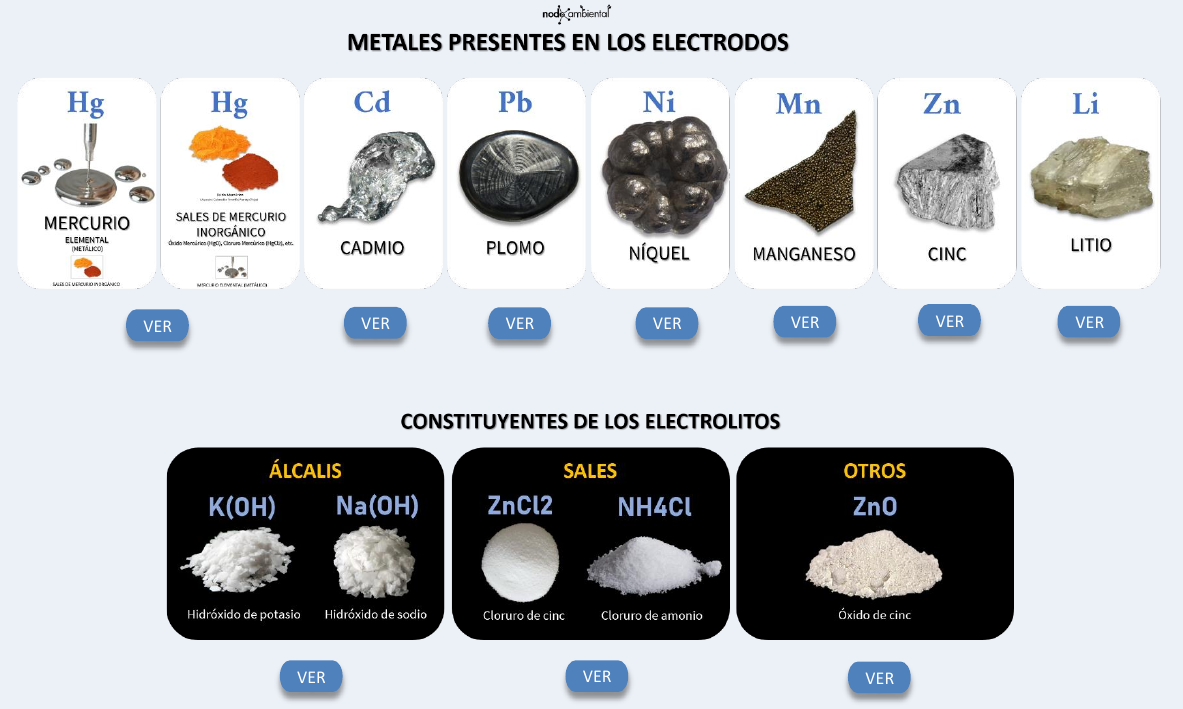
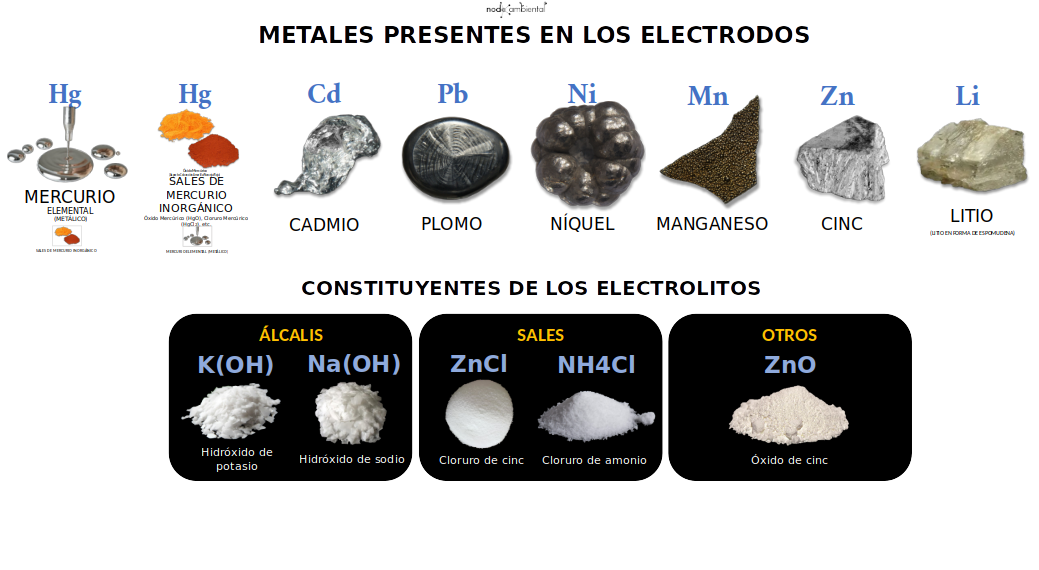
chore(build): build blog post

diff --git a/docs/contaminación/2023/07/11/gestion-pilas.html b/docs/contaminación/2023/07/11/gestion-pilas.html
@@ -172,9 +172,11 @@ Por lo tanto, se desarrolló la siguiente <strong>“guía visual para facilitar
 <table>
 <thead>
 <tr>
+<th></th>
 <th>Compará Pilas</th>
 <th>Cilíndricas</th>
 <th>Botón</th>
+<th></th>
 </tr>
 </thead>
 <tbody>
@@ -182,6 +184,8 @@ Por lo tanto, se desarrolló la siguiente <strong>“guía visual para facilitar
 <td><a class="button is-link is-light" href="https://docs.google.com/document/d/19gSvhjZ_xcbocrw7rgooecc3-O9S3JPD__icZH-i6cE/edit?usp=sharing">Ver</a></td>
 <td><a class="button is-link is-light" href="https://docs.google.com/document/d/19gSvhjZ_xcbocrw7rgooecc3-O9S3JPD__icZH-i6cE/edit?usp=sharing">Ver</a></td>
 <td><a class="button is-link is-light" href="https://docs.google.com/document/d/19gSvhjZ_xcbocrw7rgooecc3-O9S3JPD__icZH-i6cE/edit?usp=sharing">Ver</a></td>
+<td></td>
+<td></td>
 </tr>
 </tbody>
 </table>
@@ -202,12 +206,7 @@ No obstante su peligrosidad, la relevancia e incidencia de estos últimos, ha di
 <p>Finalmente, vale mencionar que, los efectos negativos que impactan directamente sobre la salud humana son los <em><strong>principales motivos que generan la necesidad de una adecuada gestión ambiental de las pilas y baterías</strong></em>.</p>
 <p><img src="/assets/images/post/21metales.png" alt="metales"></p>
 <p><img src="/assets/images/post/22metalesatencion.png" alt="metalesatencion"></p>
-<blockquote>
-<p>botones de enlaces</p>
-</blockquote>
-<hr>
-<h3>ATENCIÓN</h3>
-<p>Los efectos de la exposición a cualquier sustancia peligrosa dependen de la dosis, la duración, la manera en que usted fue expuesto, así como de sus características y hábitos personales, y de  si hay o no otras sustancias químicas presentes.</p>
+<p><a class="button is-link is-light" href="https://docs.google.com/document/d/19gSvhjZ_xcbocrw7rgooecc3-O9S3JPD__icZH-i6cE/edit?usp=sharing">Metales</a></p>
 <hr>
 <h3>Tipos de tratamiento más habituales existentes en el mundo para pilas y baterías usadas</h3>
 <hr>
@@ -347,7 +346,7 @@ No obstante su peligrosidad, la relevancia e incidencia de estos últimos, ha di
         </div>
     </div>
     <h6>
-        Última actualización del contenido: 21/11/2023
+        Última actualización del contenido: 24/11/2023
     </h6>
 </footer>
 </body>
